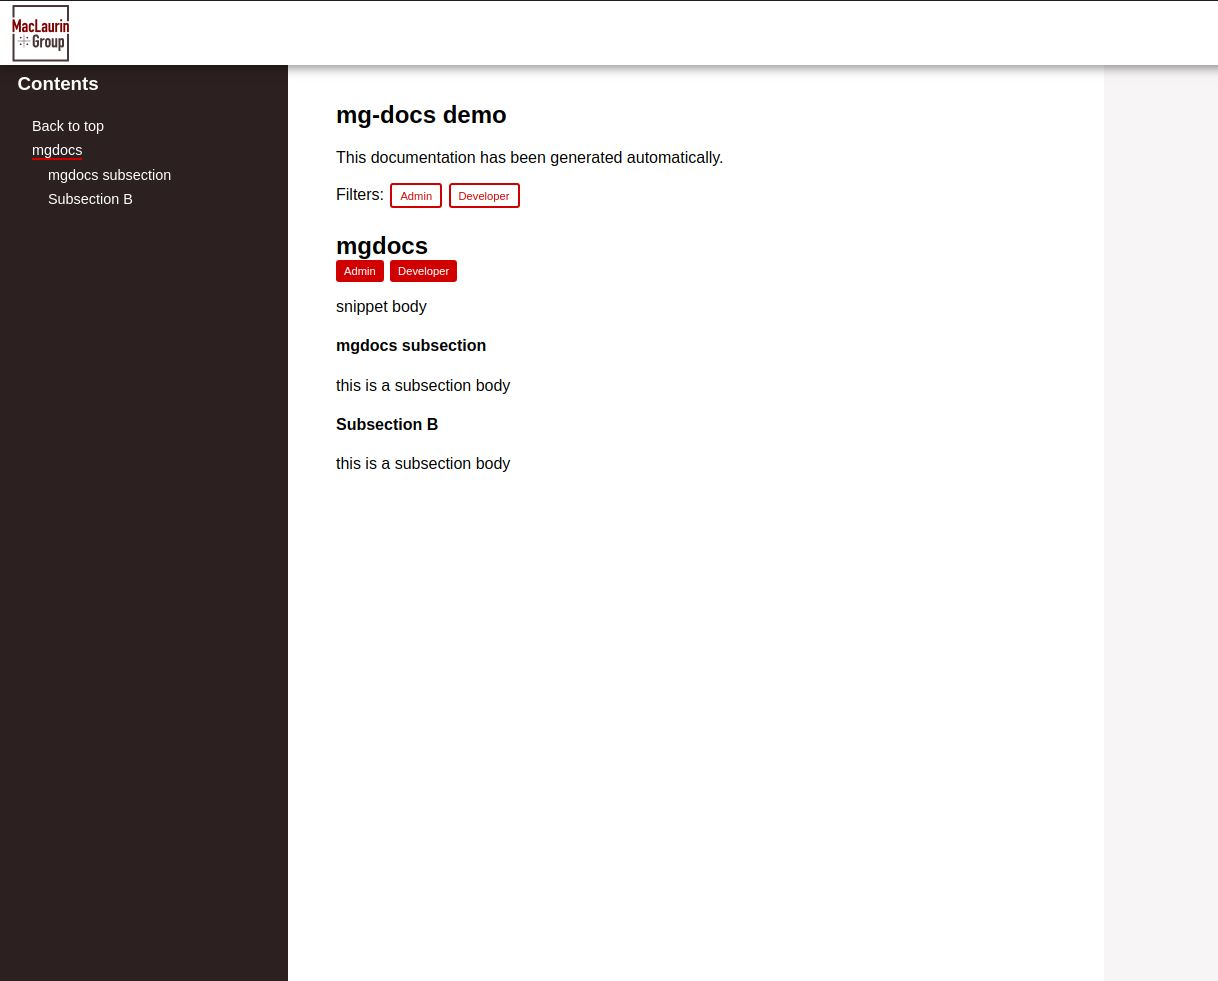
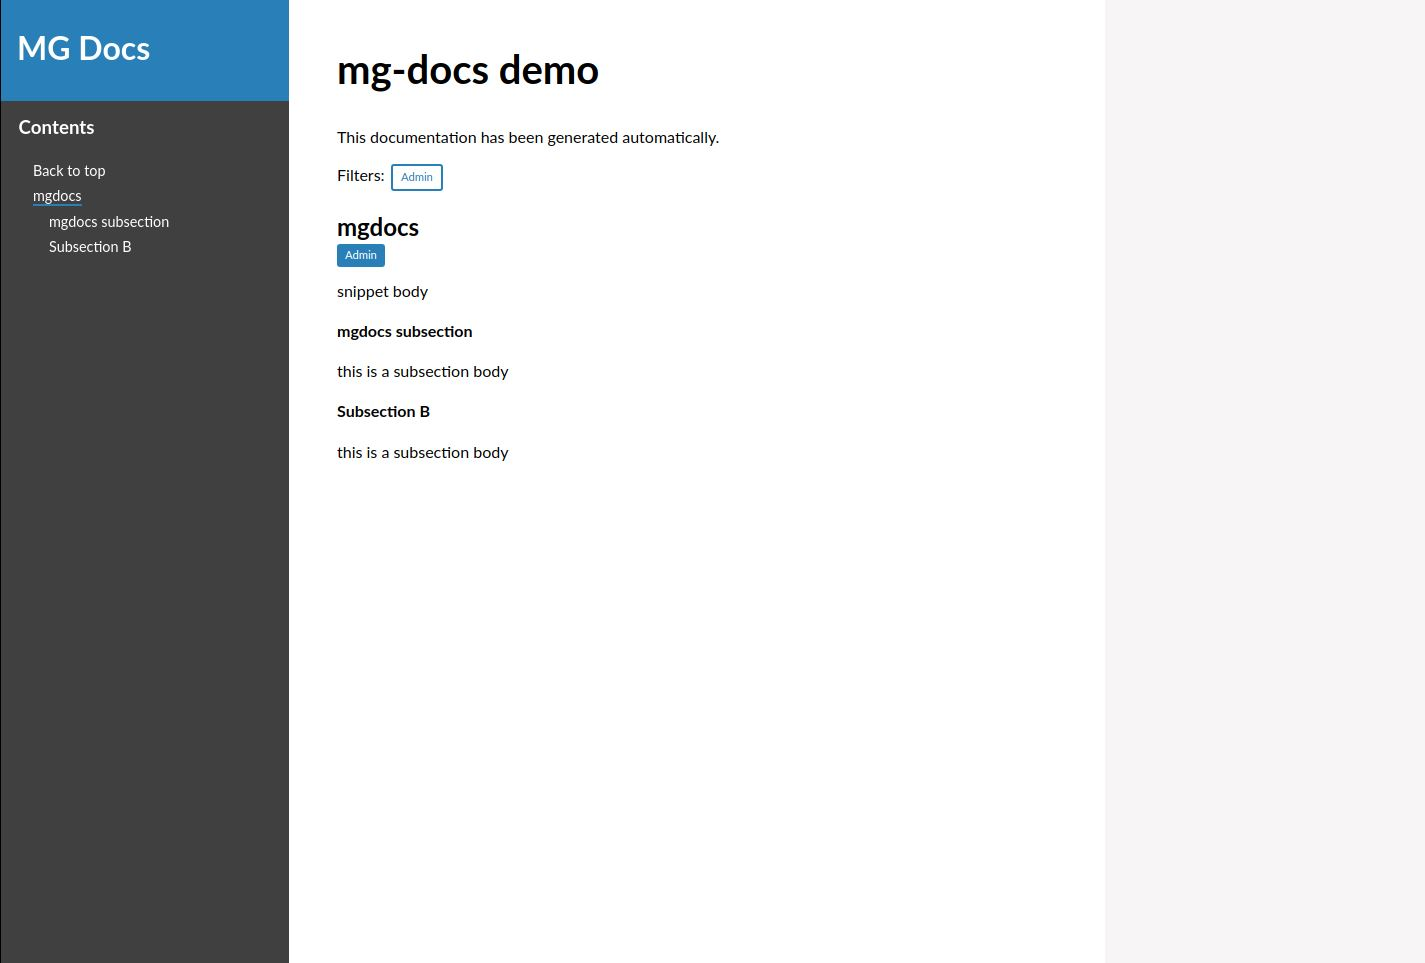
fixed minor bugs

Changed region(s): [[0.0, 0.0, 1.0, 1.0]]

diff --git a/dist/index.html b/dist/index.html
@@ -15,6 +15,10 @@ html, body {
   font-size: 16px;
 }
 
+#top h1 {
+  font-size: 2.5rem;
+}
+
 .mg-docs-sidebar {
   position: fixed;
   left: 0;
@@ -176,44 +180,28 @@ section h3 {
       <section id="top">
         <h1>mg-docs demo</h1><div>This documentation has been generated automatically.</div>
       </section>
-    <div class="mg-docs-badge-row-filters">Filters:<div class="mg-docs-badge-filter">Admin</div><div class="mg-docs-badge-filter">Developer</div></div><section id="id1253" class="mg-docs-snippet"><h3>mgdocs 2</h3><div class="mg-docs-badge-row"><div class="mg-docs-badge">Admin</div><div class="mg-docs-badge">Developer</div></div><div>snippet body</div>
-    <section id="mgdocs_subsecstion8596">
-    <h4>mgdocs subsecstion</h4>
+    <div class="mg-docs-badge-row-filters">Filters:<div class="mg-docs-badge-filter">Admin</div></div><section id="124" class="mg-docs-snippet"><h3>mgdocs</h3><div class="mg-docs-badge-row"><div class="mg-docs-badge">Admin</div></div><div>snippet body</div>
+    <section id="mgdocs_subsection5814">
+    <h4>mgdocs subsection</h4>
     <div>this is a subsection body</div>
     </section>
     
-    <section id="Subsection_B6558">
+    <section id="Subsection_B9396">
     <h4>Subsection B</h4>
     <div>this is a subsection body</div>
     </section>
-    </section><section id="id1253" class="mg-docs-snippet"><h3>mgdocs 1</h3><div class="mg-docs-badge-row"><div class="mg-docs-badge">Admin</div><div class="mg-docs-badge">Developer</div></div><div>snippet body</div>
-    <section id="mgdocs_subsecstion6869">
-    <h4>mgdocs subsecstion</h4>
-    <div>this is asdfasdfasdf subsection body</div>
-    </section>
-    
-    <section id="Subsection_B7320">
-    <h4>Subsection B</h4>
-    <div>this is a subsection body</div>
-    </section>
-    </section><section id="8658" class="mg-docs-snippet"><h3></h3><div class="mg-docs-badge-row"></div><div></div></section></div><div class="mg-docs-sidebar"><div class="mg-docs-sidebar-header"><h1>MG Docs</h1></div>
+    </section><section id="270" class="mg-docs-snippet"><h3></h3><div class="mg-docs-badge-row"></div><div></div></section></div><div class="mg-docs-sidebar"><div class="mg-docs-sidebar-header"><h1>MG Docs</h1></div>
     <div class="mg-docs-contents"><h3>Contents</h3><ul class="mg-docs-snippet-list">
     <li><a href="#top" class="mg-docs-contents-snippet" data-tags="">Back to top</a></li>
     <li>
         <a
-          href="#id1253"
+          href="#124"
           class="mg-docs-contents-snippet"
-          data-tags="Admin Developer"
-        >mgdocs 2</a>
-      </li><ul class="mg-docs-section-list"><li><a href="#mgdocs_subsecstion8596">mgdocs subsecstion</a></li><li><a href="#Subsection_B6558">Subsection B</a></li></ul><li>
+          data-tags="Admin"
+        >mgdocs</a>
+      </li><ul class="mg-docs-section-list"><li><a href="#mgdocs_subsection5814">mgdocs subsection</a></li><li><a href="#Subsection_B9396">Subsection B</a></li></ul><li>
         <a
-          href="#id1253"
-          class="mg-docs-contents-snippet"
-          data-tags="Admin Developer"
-        >mgdocs 1</a>
-      </li><ul class="mg-docs-section-list"><li><a href="#mgdocs_subsecstion6869">mgdocs subsecstion</a></li><li><a href="#Subsection_B7320">Subsection B</a></li></ul><li>
-        <a
-          href="#8658"
+          href="#270"
           class="mg-docs-contents-snippet"
           data-tags=""
         ></a>

diff --git a/test/testHTMLFile.html b/test/testHTMLFile.html
@@ -50,4 +50,29 @@
         </mg:body>
     </mg:docs>
 
+
+    <mg-docs>
+        <mg-tag>Admin</mg-tag>
+        <mg-order>12</mg-order>
+        <mg-id>124</mg-id>
+      
+        <mg-title>mgdocs</mg-title>
+        <mg-body>
+          snippet body
+      
+          <mg-section>
+            <mg-sectiontitle>mgdocs subsection</mg-sectiontitle>
+            <mg-sectionbody>
+              this is a subsection body
+            </mg-sectionbody>
+          </mg-section>
+      
+          <mg-section>
+            <mg-sectiontitle>Subsection B</mg-sectiontitle>
+            <mg-sectionbody>
+              this is a subsection body
+            </mg-sectionbody>
+          </mg-section>
+        </mg-body>
+      </mg-docs>
 </html>

diff --git a/src/lib/mgdocsCSS.js b/src/lib/mgdocsCSS.js
@@ -8,6 +8,10 @@ html, body {
   font-size: 16px;
 }
 
+#top h1 {
+  font-size: 2.5rem;
+}
+
 .mg-docs-sidebar {
   position: fixed;
   left: 0;
